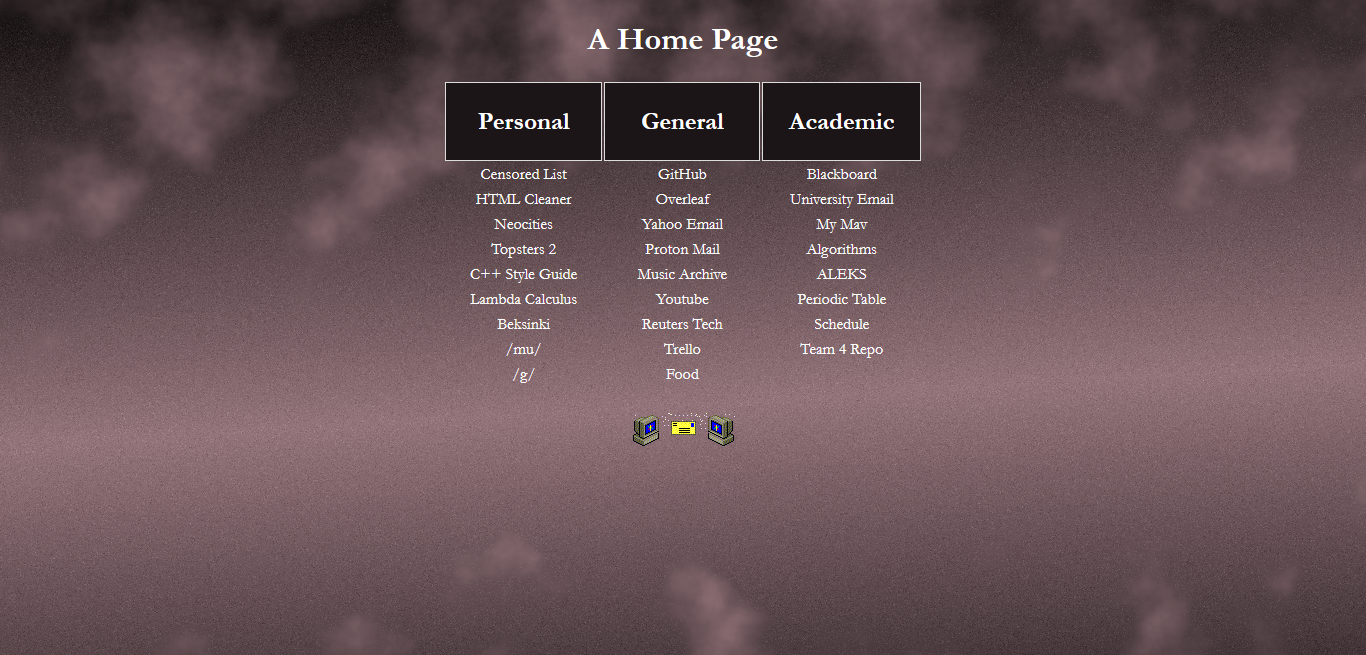
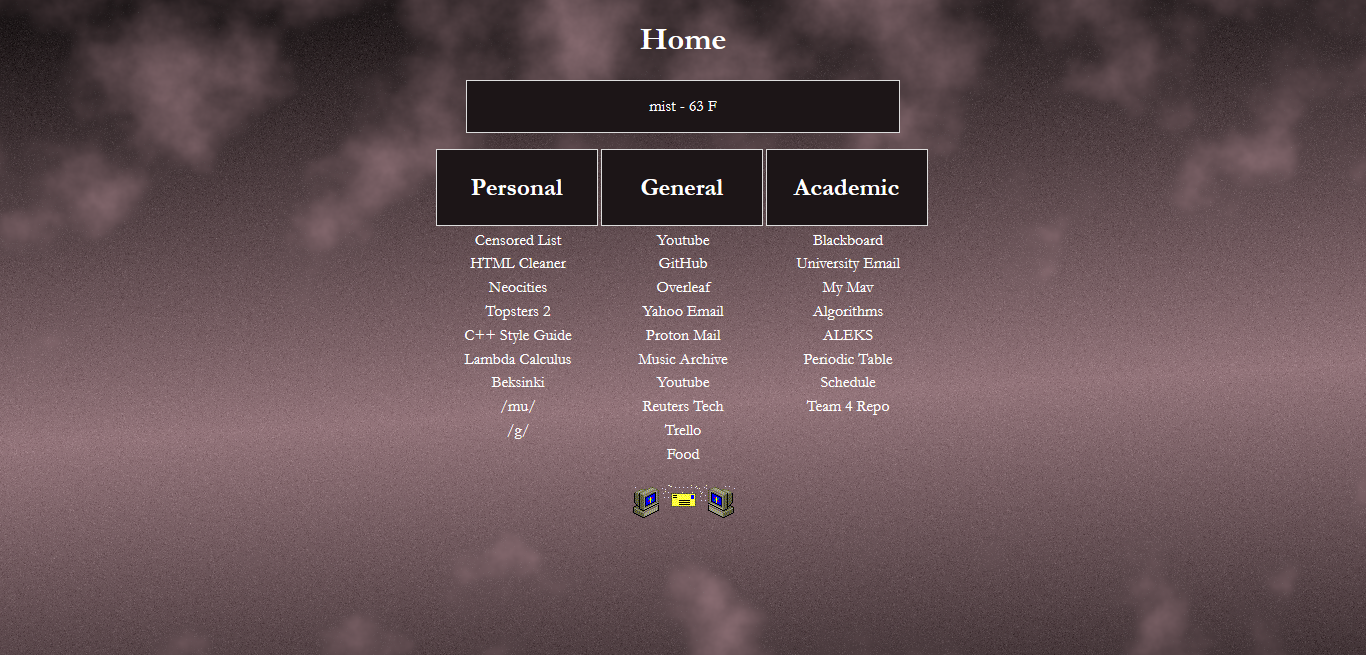
Small change to page, preview updated

Changed region(s): [[0.3075, 0.1221, 0.6764, 0.7023], [0.4305, 0.0305, 0.5842, 0.0916], [0.4612, 0.7328, 0.5534, 0.7939]]

diff --git a/dan/index.html b/dan/index.html
@@ -17,7 +17,7 @@ Weather information retrieval method and general <div> structure were taken from
 		<link rel="icon" type="image/x-icon" href="img/h_icon.png"> <!--Favicon image, must but 16x16 or 32x32 PNG that uses 8-bit or 24-bit colors-->
 	</head>
 	<body>
-		<h1>A Home Page</h1>
+		<h1>Home</h1>
 		<div class="container">
 			<div class="weather-container">
 				<div class="row">
@@ -86,8 +86,6 @@ Weather information retrieval method and general <div> structure were taken from
 			window.onload = () => {
 				let xhr = new XMLHttpRequest();
 				// Request to open weather map
-				// http://api.openweathermap.org/data/2.5/weather?id=4737316&units=imperial&appid=e5b292ae2f9dae5f29e11499c2d82ece
-				// http://api.openweathermap.org/data/2.5/weather?id=4671240&units=imperial&appid=bb617c8eebae0d1c79c479dd6ad0aab3
 				xhr.open('GET', 'http://api.openweathermap.org/data/2.5/weather?id=4671240&units=imperial&appid=bb617c8eebae0d1c79c479dd6ad0aab3');
 				xhr.onload = () => {
 					if (xhr.readyState === 4) {
